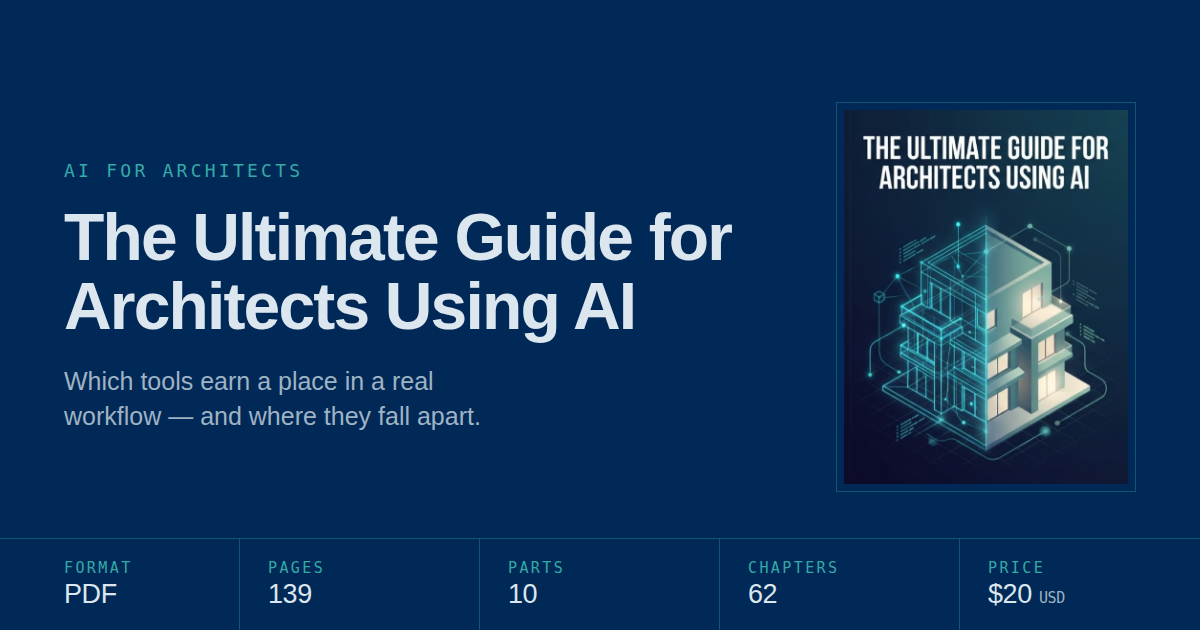
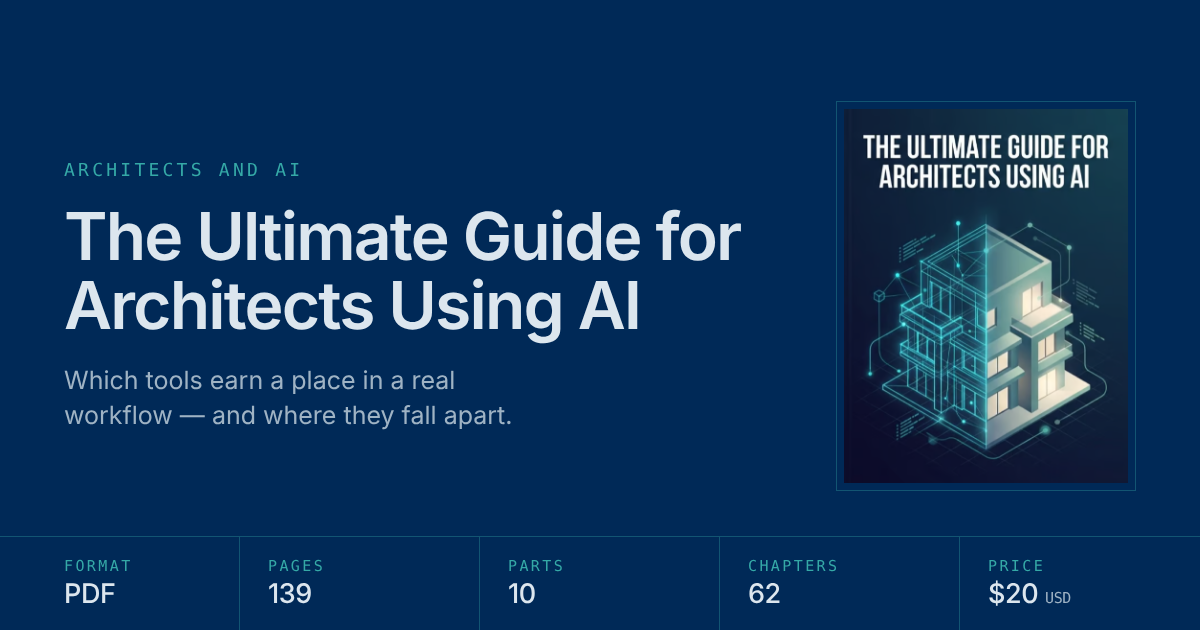
Rename brand from "AI for Architects" to "Architects and AI"
Updates the site name in page copy, metadata, structured data, footer,
cover placeholder SVG, share-image source and README, and re-renders
assets/og-image.png.

Claude-Session: https://claude.ai/code/session_012r1fRgssR8cPjvw2bxGh4P

diff --git a/index.html b/index.html
@@ -18,7 +18,7 @@
 
 <!-- Open Graph — Facebook, LinkedIn, WhatsApp, Slack, Discord -->
 <meta property="og:type" content="website">
-<meta property="og:site_name" content="AI for Architects">
+<meta property="og:site_name" content="Architects and AI">
 <meta property="og:locale" content="en_GB">
 <meta property="og:url" content="https://architectsandai.com/">
 <meta property="og:title" content="The Ultimate Guide for Architects Using AI">
@@ -63,12 +63,12 @@
       "url": "https://architectsandai.com/",
       "author": {
         "@type": "Organization",
-        "name": "AI for Architects",
+        "name": "Architects and AI",
         "url": "https://www.youtube.com/@ArchitectsAndAI"
       },
       "publisher": {
         "@type": "Organization",
-        "name": "AI for Architects",
+        "name": "Architects and AI",
         "url": "https://www.youtube.com/@ArchitectsAndAI"
       },
       "offers": {
@@ -88,7 +88,7 @@
       "image": "https://architectsandai.com/assets/cover.png",
       "brand": {
         "@type": "Brand",
-        "name": "AI for Architects"
+        "name": "Architects and AI"
       },
       "offers": {
         "@type": "Offer",
@@ -117,7 +117,7 @@
 <header class="masthead">
   <div class="wrap masthead__inner">
     <a class="wordmark" href="#top">
-      <span class="wordmark__name">AI for Architects</span>
+      <span class="wordmark__name">Architects and AI</span>
       <span class="wordmark__meta">Guide</span>
     </a>
     <nav class="nav" aria-label="Sections">
@@ -144,7 +144,7 @@
           costs, and the point where it stops being worth the trouble.
         </p>
         <p class="hero__byline">
-          From the creator of <span class="nowrap">AI for Architects</span>, a channel that runs
+          From the creator of <span class="nowrap">Architects and AI</span>, a channel that runs
           these tools against the work architecture teams do and publishes what happens.
         </p>
         <a class="btn btn--lg payhip-buy-button" data-theme="none" data-product="8gr7H" href="https://payhip.com/b/8gr7H" data-cta="hero">Get the 139-page guide — $20</a>
@@ -174,7 +174,7 @@
         <div class="titleblock__cell"><dt>Parts</dt><dd>10</dd></div>
         <div class="titleblock__cell"><dt>Chapters</dt><dd>62</dd></div>
         <div class="titleblock__cell"><dt>Price</dt><dd>$20 <span class="titleblock__sub">USD</span></dd></div>
-        <div class="titleblock__cell titleblock__cell--wide"><dt>From</dt><dd>AI for Architects</dd></div>
+        <div class="titleblock__cell titleblock__cell--wide"><dt>From</dt><dd>Architects and AI</dd></div>
       </dl>
     </div>
   </section>
@@ -579,7 +579,7 @@
       <div class="band__body band__body--narrow">
         <h2>Who wrote this</h2>
         <p>
-          I run <a href="https://www.youtube.com/@ArchitectsAndAI" rel="noopener">AI for Architects</a>,
+          I run <a href="https://www.youtube.com/@ArchitectsAndAI" rel="noopener">Architects and AI</a>,
           a YouTube channel about using AI tools in architectural work. I run software against
           the kinds of tasks architecture teams do and publish what happens, including the runs
           where the tool loses.
@@ -704,7 +704,7 @@
 <footer class="footer">
   <div class="wrap footer__inner">
     <div class="footer__col">
-      <p class="footer__brand">AI for Architects</p>
+      <p class="footer__brand">Architects and AI</p>
       <p><a href="https://www.youtube.com/@ArchitectsAndAI" rel="noopener">youtube.com/@ArchitectsAndAI</a></p>
       <p><a href="mailto:funvideocreations1@gmail.com">funvideocreations1@gmail.com</a></p>
     </div>
@@ -714,7 +714,7 @@
         sponsored by, affiliated with or endorsed by any of the software companies whose tools it
         covers.
       </p>
-      <p class="footer__copy">© <span id="year">2026</span> AI for Architects. All rights reserved.</p>
+      <p class="footer__copy">© <span id="year">2026</span> Architects and AI. All rights reserved.</p>
     </div>
   </div>
 </footer>

diff --git a/assets/og-image.html b/assets/og-image.html
@@ -53,7 +53,7 @@
   <div class="sheet">
     <div class="top">
       <div>
-        <p class="eyebrow">AI for Architects</p>
+        <p class="eyebrow">Architects and AI</p>
         <h1>The Ultimate Guide for Architects Using AI</h1>
         <p class="sub">Which tools earn a place in a real workflow — and where they fall apart.</p>
       </div>

diff --git a/README.md b/README.md
@@ -246,6 +246,6 @@ purchase path, but the overlay would need looking at.
 - No third-party scripts other than Payhip's checkout. The analytics and pixel
   slots in `<head>` are empty and clearly marked.
 - No claim, anywhere, that the author is an architect or has architectural
-  training. The framing throughout is the creator of the AI for Architects
+  training. The framing throughout is the creator of the Architects and AI
   channel, who tests these tools and reports what happens. Keep any copy you
   add consistent with that.
